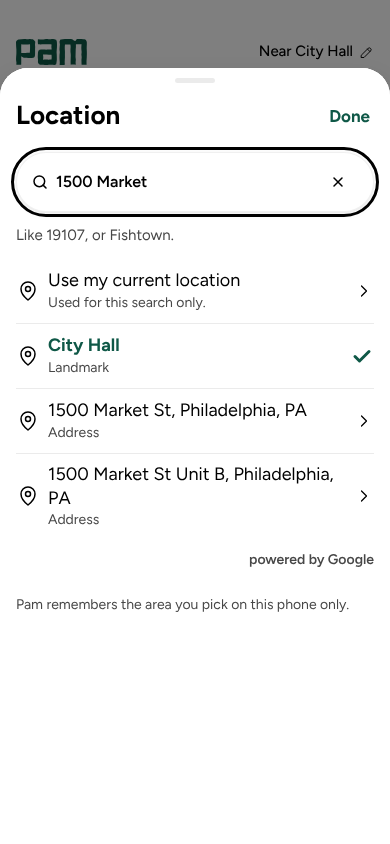
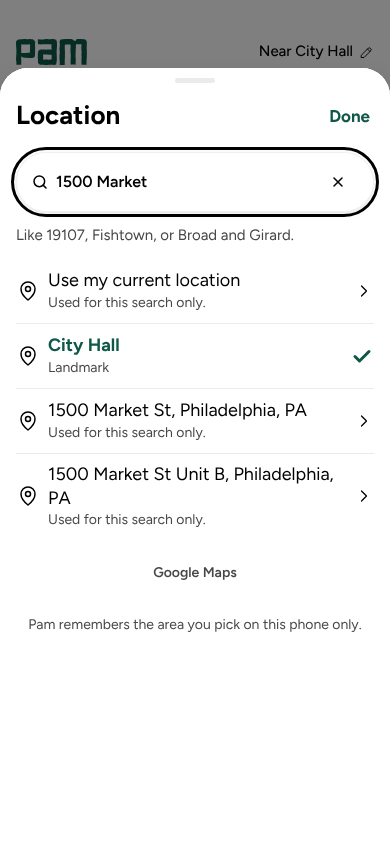
Street search: the label and hint say an address works (with a key), Google rows say 'Used for this search only.', the footer is centred, a status question, stories with search on; places.spec alert made robust (D-552)
Claude-Session: https://claude.ai/code/session_01RmG6J2CCikoqM9H2fhbSPm

diff --git a/pam/apps/web/e2e/street-search.spec.ts b/pam/apps/web/e2e/street-search.spec.ts
@@ -31,6 +31,8 @@ async function open(page: Page, { enabled = true } = {}) {
   await page.route('**/rest/v1/rpc/services_near*', (route) => route.fulfill(json([])));
   await page.route(FUNCTION, (route) => {
     const body = route.request().postDataJSON() as Record<string, unknown>;
+    // "Is it on?" asks Google nothing and is not counted with the questions about what was typed.
+    if (body['action'] === 'status') return route.fulfill(json({ enabled }));
     asked.push(body);
     if (!enabled) return route.fulfill(json({ enabled: false }));
     if (body['action'] === 'choose') {
@@ -55,9 +57,18 @@ async function open(page: Page, { enabled = true } = {}) {
 test.describe('street search', () => {
   test('an address: Pam’s list first, Google’s rows below with its mark; picking one sets the area', async ({ page }) => {
     const { asked, outside, box } = await open(page);
+    // With a key, the field says an address works (Sage, 13 October): the street label and hint, not the old ones.
+    await expect(page.getByRole('textbox', { name: 'ZIP code, neighborhood or address' })).toBeVisible();
+    await expect(page.getByText('Like 19107, Fishtown, or Broad and Girard.')).toBeVisible();
     await box.fill('1500 Market');
     await expect(page.getByRole('button', { name: /^1500 Market St, Philadelphia, PA/ })).toBeVisible();
+    // Under option A a pick is never kept, and the row says so where it is picked, like "Use my current location".
+    await expect(page.getByRole('button', { name: /^1500 Market St, Philadelphia, PA.*Used for this search only\./ }).first()).toBeVisible();
     await expect(page.locator('[data-google-attribution]')).toBeVisible();
+    // The mark and the footer line under it are centred on one line (Will, 13 October).
+    const mark = await page.locator('[data-google-attribution]').boundingBox();
+    const footer = await page.getByText('Pam remembers the area you pick on this phone only.').boundingBox();
+    expect(Math.abs(mark!.x + mark!.width / 2 - (footer!.x + footer!.width / 2))).toBeLessThan(2);
     // The function got the words and a session token, and nothing else; the phone itself never spoke to Google.
     expect(asked[0]).toEqual({ action: 'suggest', q: '1500 Market', token: expect.stringMatching(/^[0-9a-f]{32}$/) });
     expect(outside).toEqual([]);
@@ -97,14 +108,18 @@ test.describe('street search', () => {
     expect(asked.at(-1)).toMatchObject({ q: '1500 Market St' });
   });
 
-  test('with no key the search is exactly what it was: no Google rows, no mark, no error, and it stops asking', async ({ page }) => {
+  test('with no key the search is exactly what it was: the old label and hint, no question about what was typed, no Google rows, no mark, no error', async ({ page }) => {
     const { asked, box } = await open(page, { enabled: false });
+    // No key: the old label and hint stay, with nothing about an address.
+    await expect(page.getByText('Like 19107, or Fishtown.')).toBeVisible();
+    await expect(page.getByRole('textbox', { name: 'ZIP code, neighborhood or address' })).toHaveCount(0);
     await box.fill('1500 Market');
-    await expect.poll(() => asked.length).toBe(1);
-    await expect(page.locator('[data-google-attribution]')).toHaveCount(0);
+    await page.waitForTimeout(900);
     await box.fill('Broad and Erie');
     await page.waitForTimeout(900);
-    expect(asked.length).toBe(1);
+    // "Is it on?" said no once; nothing typed was ever sent anywhere.
+    expect(asked).toEqual([]);
+    await expect(page.locator('[data-google-attribution]')).toHaveCount(0);
     await expect(page.getByText('Something went wrong')).toHaveCount(0);
   });
 

diff --git a/pam/apps/web/src/stories/roles/states/StreetSearch.stories.tsx b/pam/apps/web/src/stories/roles/states/StreetSearch.stories.tsx
@@ -1,0 +1,62 @@
+import type { Meta, StoryObj } from '@storybook/nextjs';
+import ar from '@pam/config/locales/ar.json';
+import en from '@pam/config/locales/en.json';
+import es from '@pam/config/locales/es.json';
+import ptBR from '@pam/config/locales/pt-BR.json';
+import ru from '@pam/config/locales/ru.json';
+import zhCN from '@pam/config/locales/zh-CN.json';
+import zhHK from '@pam/config/locales/zh-HK.json';
+import { asRole } from '../../journeys/journey';
+import { REDESIGN_ROUTES } from '../../prototype/routes';
+
+/**
+ * The area sheet with street search ON (D-552). The plain story has the search off, so `audit:fit` never drew the street label, the
+ * hint that says an address works, or Google's row and mark. These open the sheet in the language the story is shown in (the labels
+ * come from that language's own bundle): empty, with the street hint, and with Google's suggestions showing under Pam's own.
+ */
+const meta = { title: 'Member/Created/States/Street search' } satisfies Meta;
+
+export default meta;
+type Story = StoryObj;
+
+const BUNDLES: Record<string, Record<string, string>> = { en, es, 'pt-BR': ptBR, 'zh-CN': zhCN, 'zh-HK': zhHK, ru, ar };
+
+/** Polls until the portal has drawn the thing (the sheet and its rows are outside the story's own element). */
+async function waitFor<T extends Element>(find: () => T | null, ms = 6000): Promise<T> {
+  const until = Date.now() + ms;
+  for (;;) {
+    const found = find();
+    if (found) return found;
+    if (Date.now() > until) throw new Error('the area sheet did not draw what the story waits for');
+    await new Promise((resolve) => setTimeout(resolve, 50));
+  }
+}
+
+const route = REDESIGN_ROUTES['/places/'];
+if (!route) throw new Error('No prototype route for /places/ — add it to src/stories/prototype/routes.tsx');
+
+function sheet(name: string, typed: string | null): Story {
+  return {
+    ...asRole('member', '/places/', {}, { streetSearch: true }),
+    name,
+    render: () => <>{route!.render()}</>,
+    play: async ({ canvas, canvasElement, userEvent, globals }) => {
+      const bundle = BUNDLES[(globals as { locale?: string }).locale ?? 'en'] ?? en;
+      const near = (bundle['places.near'] ?? en['places.near']).replace('{area}', 'City Hall');
+      const change = (bundle['places.changeArea'] ?? en['places.changeArea']).replace('{area}', near);
+      await userEvent.click(await canvas.findByRole('button', { name: change }));
+      if (typed === null) return;
+      // The search field is in the sheet, which is in the document, not in the canvas.
+      const page = canvasElement.ownerDocument;
+      const box = await waitFor(() => page.querySelector('input'));
+      await userEvent.type(box, typed);
+      await waitFor(() => page.querySelector('[data-google-attribution]'));
+    },
+  };
+}
+
+
+/** Open, nothing typed: the street label and the hint that says an address works. */
+export const SheetOpen: Story = sheet('Sheet open', null);
+/** An address typed: Pam's own rows, then Google's with "Used for this search only." and the Google mark, centred. */
+export const ResultsShowing: Story = sheet('Results showing', '1500 Market');

diff --git a/pam/apps/web/src/lib/useStreetSearch.ts b/pam/apps/web/src/lib/useStreetSearch.ts
@@ -1,7 +1,7 @@
 'use client';
 
 import { useCallback, useEffect, useRef, useState } from 'react';
-import { MIN_CHARS, PAUSE_MS, askChoose, askSuggest, newToken, wantsGoogle, type Suggestion } from './streetSearch';
+import { MIN_CHARS, PAUSE_MS, askChoose, askStatus, askSuggest, newToken, wantsGoogle, type Suggestion } from './streetSearch';
 import { GOOGLE_PICK, type AreaOption } from './useAreaSearch';
 
 /**
@@ -9,6 +9,9 @@ import { GOOGLE_PICK, type AreaOption } from './useAreaSearch';
  * Google. Off until the function says it has a key; then the area search is exactly what it was.
  */
 let off = false;
+/** What the function said about having a key, once this session (null: not asked, or could not be told). */
+let known: boolean | null = null;
+let asking: Promise<void> | null = null;
 
 async function invoke(name: string, options: { body: Record<string, unknown> }) {
   const { createClient } = await import('./supabase');
@@ -18,15 +21,46 @@ async function invoke(name: string, options: { body: Record<string, unknown> }) 
 export function useStreetSearch(
   query: string,
   pam: { readonly matches: number; readonly settled: boolean },
+  isOpen = true,
 ): {
+  /** The function has a key: the field's label and hint can say an address works. False until it says so. */
+  enabled: boolean;
   suggestions: Suggestion[];
   isSearching: boolean;
   choose: (suggestion: Suggestion) => Promise<AreaOption | null>;
 } {
   const [suggestions, setSuggestions] = useState<Suggestion[]>([]);
   const [isSearching, setIsSearching] = useState(false);
+  const [enabled, setEnabled] = useState(known === true);
   const token = useRef(newToken());
   const latest = useRef(0);
+
+  // Asked once when the area sheet opens, and not again this session: no Google call is made to find out.
+  useEffect(() => {
+    if (!isOpen || off) return;
+    if (known !== null) {
+      setEnabled(known);
+      return;
+    }
+    asking ??= (async () => {
+      try {
+        const answer = await askStatus(invoke);
+        if (answer !== null) known = answer;
+        if (answer === false) off = true;
+      } catch {
+        // Could not be told: the old wording stays, and the next opening asks again.
+      } finally {
+        asking = null;
+      }
+    })();
+    let cancelled = false;
+    void asking.then(() => {
+      if (!cancelled) setEnabled(known === true);
+    });
+    return () => {
+      cancelled = true;
+    };
+  }, [isOpen]);
 
   useEffect(() => {
     const text = query.trim();
@@ -69,7 +103,7 @@ export function useStreetSearch(
     }
   }, []);
 
-  return { suggestions, isSearching, choose };
+  return { enabled, suggestions, isSearching, choose };
 }
 
 export { MIN_CHARS };

diff --git a/pam/apps/web/src/app/places/AreaPicker.tsx b/pam/apps/web/src/app/places/AreaPicker.tsx
@@ -55,7 +55,8 @@ const styles = stylex.create({
     backgroundImage: { default: 'none', ':hover': 'none', ':active': 'none' },
   },
   hint: { fontSize: '15px', lineHeight: 1.5 },
-  privacy: { fontSize: '14px', lineHeight: 1.5 },
+  // Centred under Google's mark, which is centred (Will, 13 October).
+  privacy: { fontSize: '14px', lineHeight: 1.5, textAlign: 'center', width: '100%' },
   list: { width: '100%' },
 });
 
@@ -106,7 +107,7 @@ export function AreaSearch({
   const [locating, setLocating] = useState<'idle' | 'busy' | 'failed'>('idle');
   const { options, isSearching, answered } = useAreaSearch(query);
   // Street addresses and corners from Google, through Pam's server, once Pam's own list has answered (D-552).
-  const street = useStreetSearch(query, { matches: options.length, settled: !isSearching && answered === query });
+  const street = useStreetSearch(query, { matches: options.length, settled: !isSearching && answered === query }, isOpen);
   const [choosing, setChoosing] = useState(false);
 
   const body = useRef<HTMLDivElement | null>(null);
@@ -174,7 +175,7 @@ export function AreaSearch({
           </HStack>
 
           <SearchField
-            label={t('places.areaLabel')}
+            label={t(street.enabled ? 'places.areaLabel.street' : 'places.areaLabel')}
             describedBy={hintId}
             value={query}
             onChange={setQuery}
@@ -183,7 +184,7 @@ export function AreaSearch({
           />
           {/* The search finds ZIP codes (and City Hall), so say what to type (D-536). */}
           <Text id={hintId} type="supporting" xstyle={styles.hint}>
-            {t('places.areaHint')}
+            {t(street.enabled ? 'places.areaHint.street' : 'places.areaHint')}
           </Text>
 
           <MenuList
@@ -214,7 +215,8 @@ export function AreaSearch({
               ...street.suggestions.map((suggestion) => ({
                 id: `suggest:${suggestion.placeId}`,
                 label: suggestion.label,
-                description: t('places.kind.address'),
+                // Used for this search only, as "Use my current location" says (Sage, 13 October): a Google pick is never kept.
+                description: t('places.area.hereNote'),
                 icon: <PlacesIcon {...ICON} />,
                 onSelect: () => {
                   if (choosing) return;

diff --git a/pam/apps/web/src/stories/journeys/mockSupabase.ts b/pam/apps/web/src/stories/journeys/mockSupabase.ts
@@ -96,6 +96,8 @@ export interface MockOptions {
   readonly programMemberCard?: boolean;
   /** The catalogue place in the story has a program on Pam (D-498), so its page offers Message and I'm here (D-541, D-545). */
   readonly hasLead?: boolean;
+  /** Street search is on (D-552): the pretend function has a key and answers two suggestions, so the area sheet draws its street label, hint and Google row. */
+  readonly streetSearch?: boolean;
 }
 
 /** A real place of the catalogue, to plan a trip to in a story (the examples' ids are not real). */
@@ -349,7 +351,23 @@ function routesFor(journeyRole: JourneyRole, options: MockOptions = {}): Route[]
     on('/rest/v1/message_link_previews', () => ({ body: linkPreviewsFor(role) })),
     on('/functions/v1/link-preview', () => ({ body: { made: 0 } })),
     // Street addresses from Google (D-552): off in a story, as with no key; the area search is Pam's own list.
-    on('/functions/v1/places-search', () => ({ body: { enabled: false } })),
+    on('/functions/v1/places-search', (_url, _method, body) => {
+      if (!options.streetSearch) return { body: { enabled: false } };
+      const action = ((body ?? {}) as { action?: string }).action;
+      if (action === 'suggest') {
+        return {
+          body: {
+            enabled: true,
+            suggestions: [
+              { placeId: 'ChIJstorybook1500market', label: '1500 Market St, Philadelphia, PA' },
+              { placeId: 'ChIJstorybook1500marketb', label: '1500 Market St Unit B, Philadelphia, PA' },
+            ],
+          },
+        };
+      }
+      if (action === 'choose') return { body: { enabled: true, place: { label: '1500 Market St, Philadelphia, PA 19102', lat: 39.9526, lon: -75.1664 } } };
+      return { body: { enabled: true } };
+    }),
     on('/rpc/report_photos_for_review', () => ({ body: [] })),
     on('/rpc/report_files_for_review', () => ({ body: [] })),
     // The programs a super admin has still to check (D-386, part 6): a decision takes one off the list.

diff --git a/pam/supabase/functions/places-search/handler.ts b/pam/supabase/functions/places-search/handler.ts
@@ -45,6 +45,7 @@ export interface Deps {
 }
 
 export type Wanted =
+  | { readonly action: 'status' }
   | { readonly action: 'suggest'; readonly q: string; readonly token: string }
   | { readonly action: 'choose'; readonly placeId: string; readonly token: string };
 
@@ -58,6 +59,8 @@ const CONTROL = new RegExp(`[${Array.from({ length: 32 }, (_, code) => String.fr
 export function parseRequest(raw: unknown): Wanted {
   if (!raw || typeof raw !== 'object') throw new BadRequest('a JSON object is expected');
   const body = raw as Record<string, unknown>;
+  // "Is it on?": asked when the area sheet opens, so its label and hint can say an address works. It asks Google nothing.
+  if (body['action'] === 'status') return { action: 'status' };
   const token = body['token'];
   if (typeof token !== 'string' || !TOKEN.test(token)) throw new BadRequest('a session token is needed');
   if (body['action'] === 'suggest') {
@@ -119,6 +122,8 @@ export async function handle(request: Request, deps: Deps): Promise<Response> {
   const user = ((await who.json()) as { id?: string }).id;
   if (!user) return reply(401, { error: 'sign in first' });
   if (tooOften(user, (deps.now ?? Date.now)())) return reply(429, { error: 'slow down' });
+
+  if (wanted.action === 'status') return reply(200, { enabled: true });
 
   try {
     if (wanted.action === 'suggest') {

diff --git a/pam/apps/web/src/lib/useAreaSearch.ts b/pam/apps/web/src/lib/useAreaSearch.ts
@@ -109,8 +109,8 @@ export function loadOrigin(): AreaOption {
 export function saveOrigin(origin: AreaOption): void {
   // "Use my current location" is for this search only (D-536): the phone's position is never
   // written down, so the next visit starts from the last area chosen, or City Hall.
-  // A street address picked from Google's suggestions is the same (D-552): it is often somebody's home, so it is used for this search only,
-  // not written to this phone, not sent to Pam's server, and not put in a URL. The next visit starts from the last Pam area, or City Hall.
+  // A street address picked from Google's suggestions is the same (D-552): it is often somebody's home, so it is used for this search only:
+  // not kept on this phone, not kept on Pam's server (the point is sent for the search itself, as a POST body that is not logged, like "near you"), and not put in a URL. The next visit starts from the last Pam area, or City Hall.
   if (origin.id === 'here' || origin.id.startsWith(GOOGLE_PICK)) return;
   try {
     window.localStorage.setItem(STORAGE_KEY, JSON.stringify(origin));

diff --git a/pam/packages/config/test/places-search.test.ts b/pam/packages/config/test/places-search.test.ts
@@ -47,6 +47,16 @@ describe('places-search', () => {
     expect(w.calls).toEqual([]);
   });
 
+  it('answers "is it on?" without asking Google anything, for a signed-in member only', async () => {
+    const w = world();
+    expect(await (await w.ask({ action: 'status' })).json()).toEqual({ enabled: true });
+    expect(googleCalls(w.calls)).toEqual([]);
+    expect((await world().ask({ action: 'status' }, {})).status).toBe(401);
+    const off = world({ env: { GOOGLE_MAPS_SERVER_KEY: undefined } });
+    expect(await (await off.ask({ action: 'status' })).json()).toEqual({ enabled: false });
+    expect(off.calls).toEqual([]);
+  });
+
   it('wants a signed-in member', async () => {
     expect((await world().ask({ action: 'suggest', q: '1500 Market', token: TOKEN }, {})).status).toBe(401);
     const w = world({ signedIn: false });

diff --git a/pam/apps/web/e2e/places.spec.ts b/pam/apps/web/e2e/places.spec.ts
@@ -119,7 +119,9 @@ test.describe('the places screen', () => {
     await page.route(RPC, (route) => route.fulfill({ status: 500, body: '{}' }));
     await page.goto('/places/');
 
-    const alert = page.getByRole('alert');
+    // The alert that carries the way out. Anything else that announces itself in a role="alert" at the same moment (a banner, the
+    // sign-in check) is not what this is about, and a bare getByRole('alert') is a strict-mode failure when there are two.
+    const alert = page.getByRole('alert').filter({ has: page.getByRole('link') }).first();
     await expect(alert).toBeVisible();
     // §0: never dead-end. Whatever the message says, there is a way out of it.
     // Signed out here, so Contact Pam opens the help desk on the website directly (A28).

diff --git a/pam/apps/web/src/lib/streetSearch.ts b/pam/apps/web/src/lib/streetSearch.ts
@@ -56,3 +56,11 @@ export async function askChoose(invoke: Invoke, placeId: string, token: string):
   const place = (data as { place?: Chosen | null } | null)?.place;
   return place && typeof place.lat === 'number' && typeof place.lon === 'number' ? place : null;
 }
+
+/** Whether the function has a key, without asking Google anything: `null` when it could not be told (signed out, offline). */
+export async function askStatus(invoke: Invoke): Promise<boolean | null> {
+  const { data, error } = await invoke('places-search', { body: { action: 'status' } });
+  if (error) return null;
+  const enabled = (data as { enabled?: boolean } | null)?.enabled;
+  return typeof enabled === 'boolean' ? enabled : null;
+}

diff --git a/pam/docs/decisions/D-552-street-search-through-google-from-pam-s-server.md b/pam/docs/decisions/D-552-street-search-through-google-from-pam-s-server.md
@@ -55,3 +55,10 @@ none (the chosen area stays on the phone, as before).
 Will makes the key (restricted to the Places API (New), a daily quota cap) and enters it as `GOOGLE_MAPS_SERVER_KEY`; Lena writes the
 Privacy line (what is typed goes from Pam's server to Google), Sage edits, Will signs; Dot adds Google's mark. The hint under the field
 ("Like 19107, or Fishtown.") should then also say an address can be typed: Sage's words. The function is deployed with JWT verification ON.
+
+## Words, mark and a status question (13 October, after Sage, Lena, Dot and Will)
+
+- With a key, the field says an address works: `places.areaLabel.street` "ZIP code, neighborhood or address" and `places.areaHint.street` "Like 19107, Fishtown, or Broad and Girard." (a corner, never a house number). Without one, the old label and hint stay. The sheet learns whether there is a key from a third function action, `status`, asked once when it opens (it asks Google nothing and is not counted as a search).
+- Google rows say "Used for this search only." (`places.area.hereNote`, as "Use my current location" does), because a Google pick is never kept. The footer "Pam remembers the area you pick on this phone only." stays: it is true for Pam's own areas.
+- The mark is Google's "Google Maps" logo (Dot, D-557: files from Will, served by Pam, 18px, Google's clear space), the words "Google Maps" until the files arrive; the mark and the footer line are centred (Will, 13 October).
+- Lena's `street-search-line.test.ts` holds the function and the phone's storage to the p7 line (a pick never reaches `pam.origin`).
